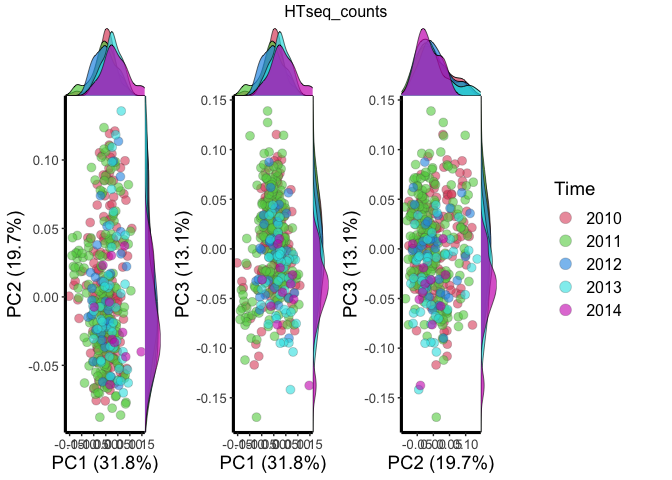
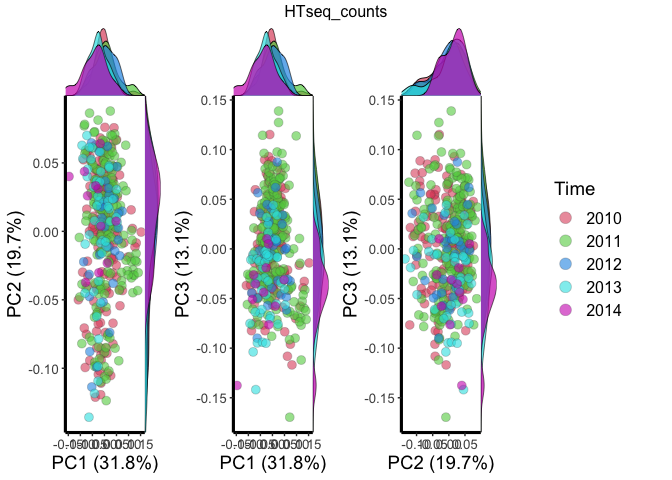
Updating Readme by adding description for study design

diff --git a/README.md b/README.md
@@ -100,6 +100,9 @@ filtered.data3 <- library.size.fil(data = filtered.data2, ls_cutoff = 17.5)
 
 ## Study Design Plot
 
+The idea behind Study Design plot is to present the summarized
+information about the filtered dataset using HeatMaps.
+
 ``` r
 study.design(data = filtered.data3)
 ```
@@ -123,12 +126,12 @@ pca_data <- get.pca(data = filtered.data3, nPcs = 7, is.log = FALSE)
 ``` r
 # Generated 7 PCs for first two genes
 head(pca_data[['HTseq_counts']]$sing.val$u,2)
-#>                                      [,1]        [,2]        [,3]        [,4]
-#> TCGA-A8-A06Z-01A-11R-A00Z-07  0.008247742 -0.03800256 0.074868654 -0.08068739
-#> TCGA-AN-A03Y-01A-21R-A00Z-07 -0.001517381 -0.01297216 0.008098276  0.01609687
-#>                                     [,5]        [,6]        [,7]
-#> TCGA-A8-A06Z-01A-11R-A00Z-07 0.017982615 -0.03732320 -0.02340946
-#> TCGA-AN-A03Y-01A-21R-A00Z-07 0.001079871 -0.04753709  0.04164184
+#>                                      [,1]       [,2]        [,3]        [,4]
+#> TCGA-A8-A06Z-01A-11R-A00Z-07 -0.008247742 0.03800256 0.074868654  0.08068739
+#> TCGA-AN-A03Y-01A-21R-A00Z-07  0.001517381 0.01297216 0.008098276 -0.01609687
+#>                                      [,5]        [,6]        [,7]
+#> TCGA-A8-A06Z-01A-11R-A00Z-07 -0.017982614 -0.03732318 -0.02340878
+#> TCGA-AN-A03Y-01A-21R-A00Z-07 -0.001079871 -0.04753709  0.04164179
 ```
 
 ### Plot PCA
